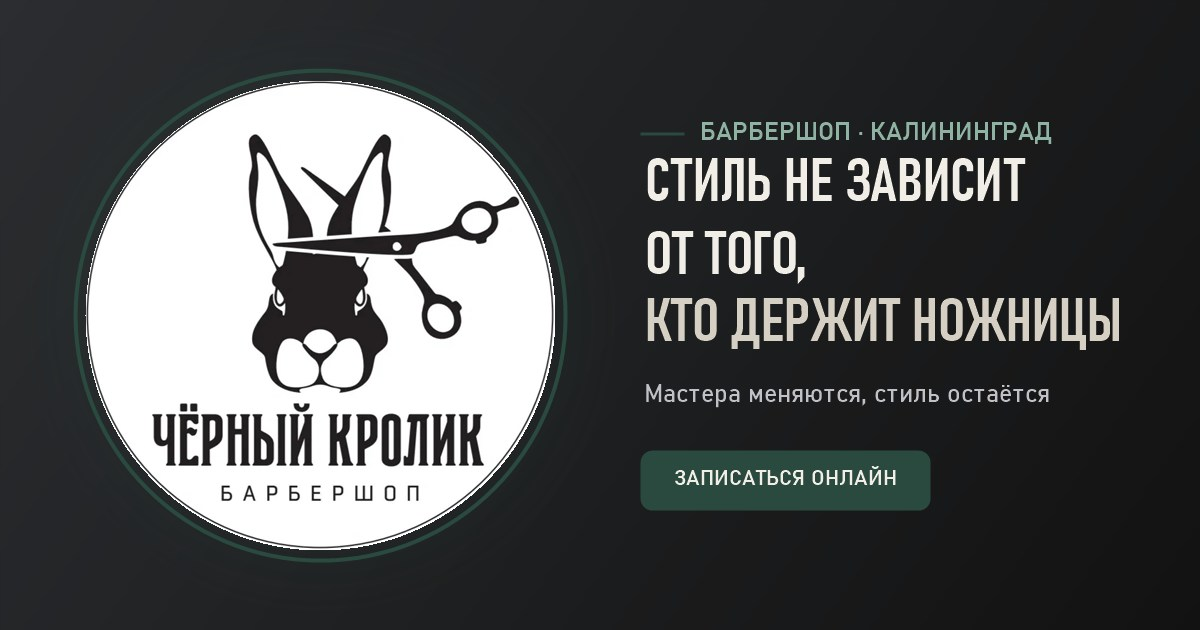
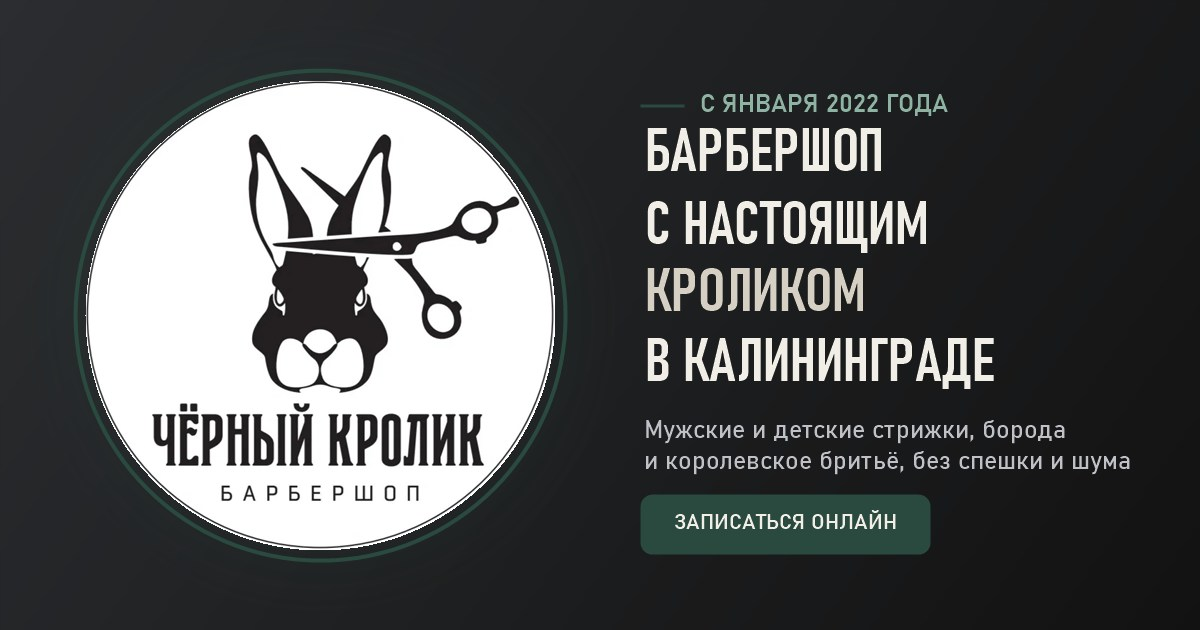
Обложка под новый заголовок сайта

Changed region(s): [[0.5242, 0.1508, 0.9558, 0.9048]]

diff --git a/404.html b/404.html
@@ -12,7 +12,7 @@
 <meta property="og:site_name" content="Чёрный кролик">
 <meta property="og:title" content="Чёрный кролик: барбершоп в Калининграде, запись онлайн">
 <meta property="og:description" content="Барбершоп «Чёрный кролик» в Калининграде: мужские и детские стрижки, борода, королевское бритьё, подарочные сертификаты. Онлайн-запись">
-<meta property="og:image" content="https://helenelizarova-alt.github.io/blackrabbit39/og-cover.jpg?v=4">
+<meta property="og:image" content="https://helenelizarova-alt.github.io/blackrabbit39/og-cover.jpg?v=5">
 <meta property="og:image:width" content="1200">
 <meta property="og:image:height" content="630">
 <meta property="og:url" content="https://helenelizarova-alt.github.io/blackrabbit39/">

diff --git a/index.html b/index.html
@@ -12,7 +12,7 @@
 <meta property="og:site_name" content="Чёрный кролик">
 <meta property="og:title" content="Чёрный кролик: барбершоп в Калининграде, запись онлайн">
 <meta property="og:description" content="Барбершоп «Чёрный кролик» в Калининграде: мужские и детские стрижки, борода, королевское бритьё, подарочные сертификаты. Онлайн-запись">
-<meta property="og:image" content="https://helenelizarova-alt.github.io/blackrabbit39/og-cover.jpg?v=4">
+<meta property="og:image" content="https://helenelizarova-alt.github.io/blackrabbit39/og-cover.jpg?v=5">
 <meta property="og:image:width" content="1200">
 <meta property="og:image:height" content="630">
 <meta property="og:url" content="https://helenelizarova-alt.github.io/blackrabbit39/">
